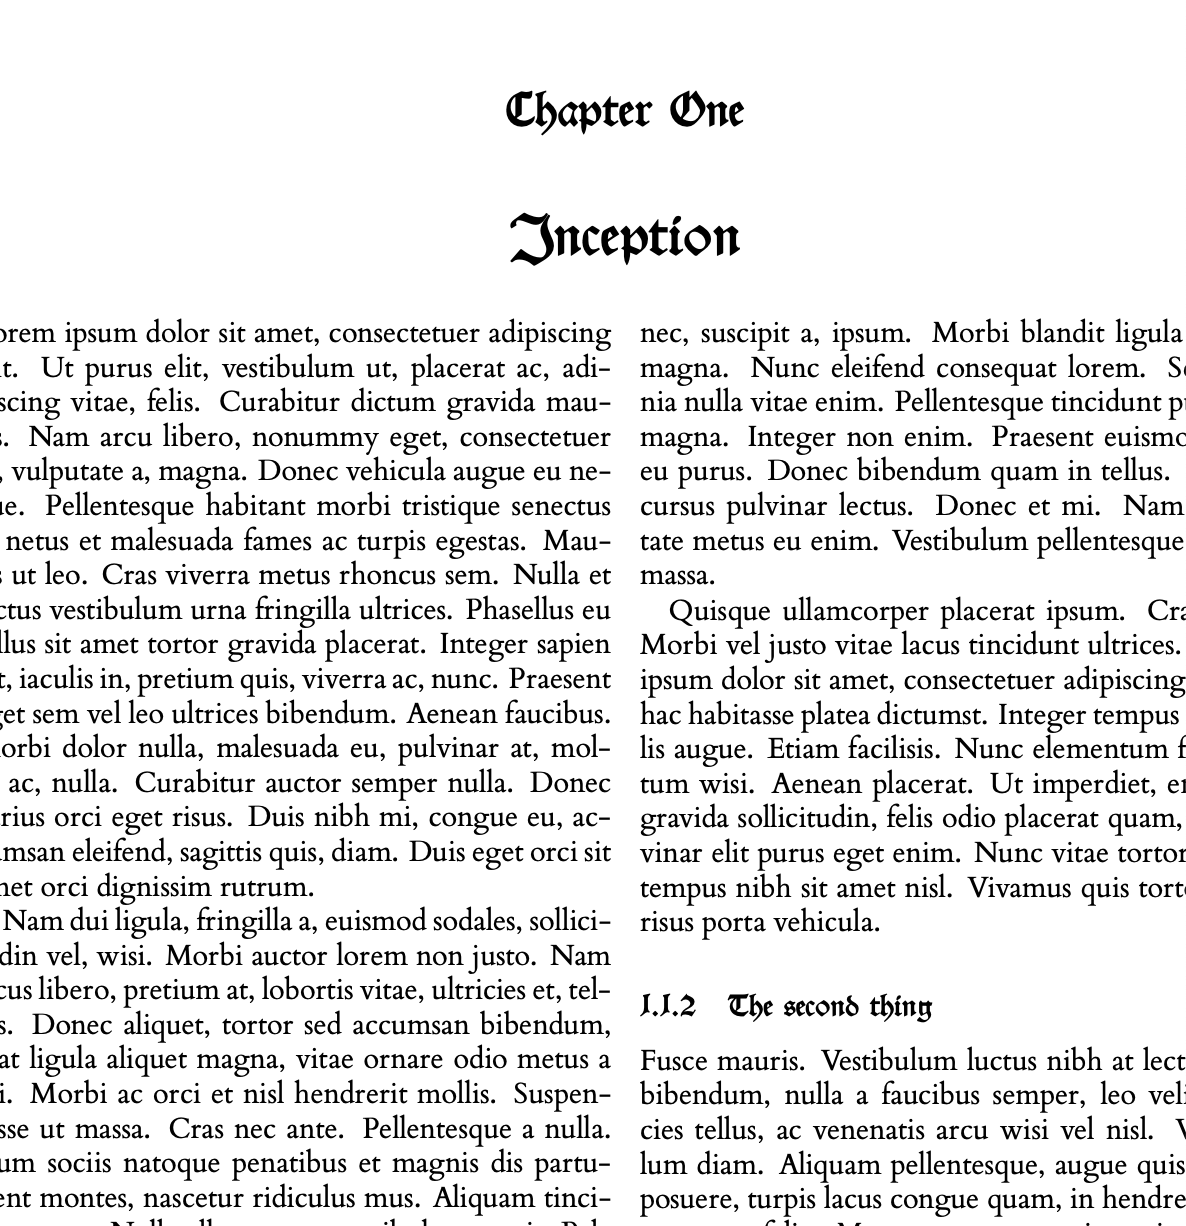
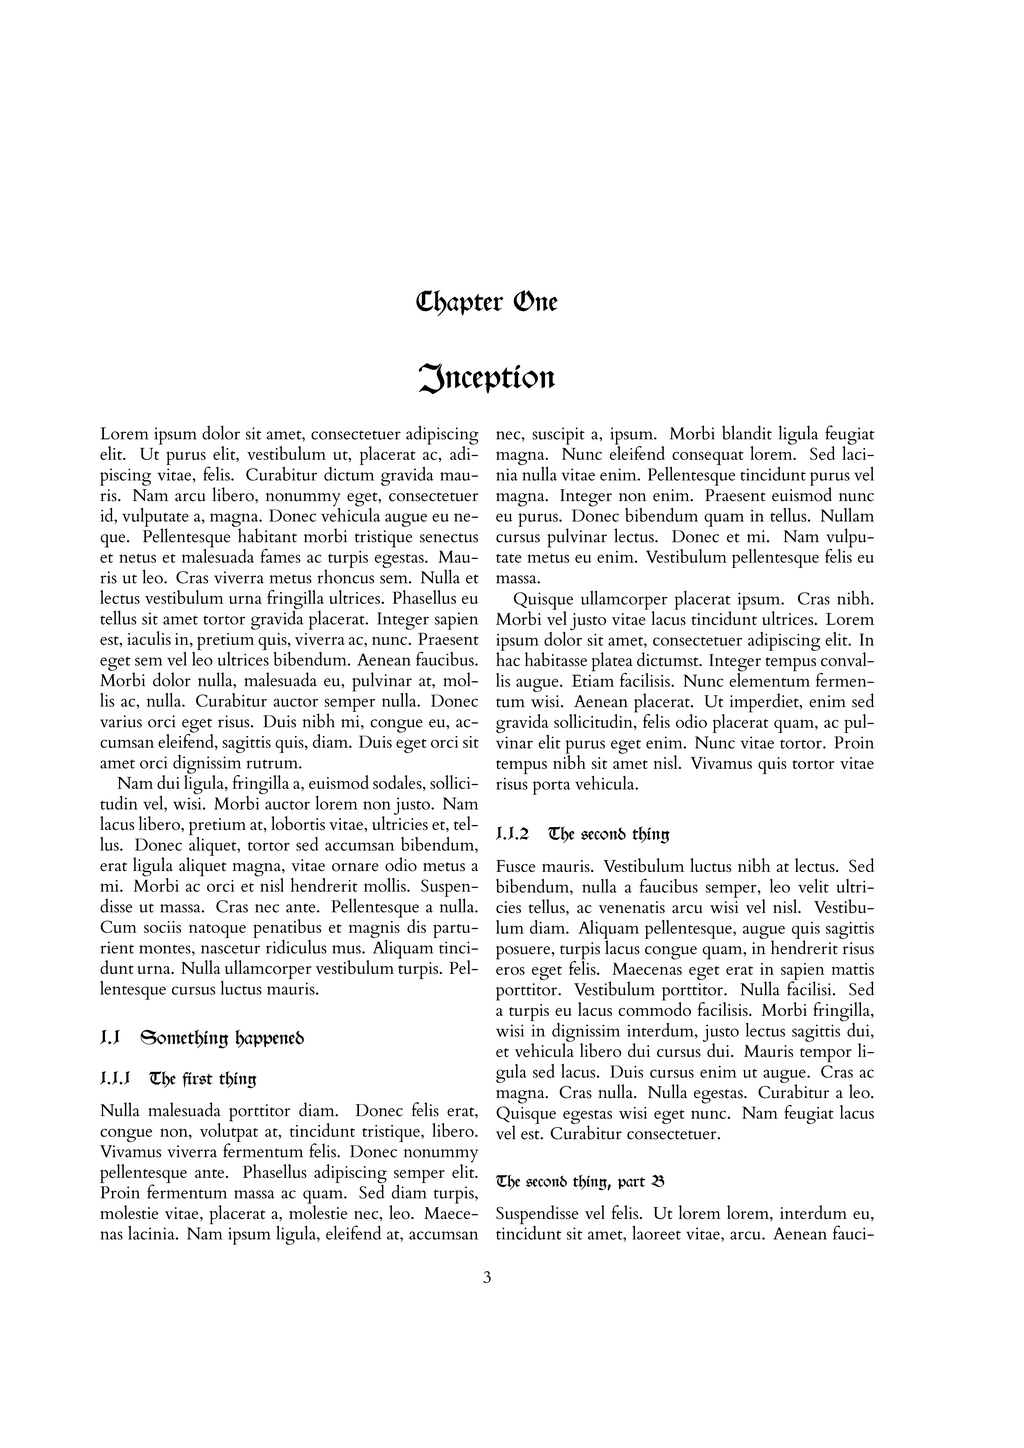
feat(showcase): three styles extracted, showcase build with make target

Changed region(s): [[0.0, 0.248, 1.0, 1.0], [0.4062, 0.062, 0.625, 0.124], [0.4062, 0.155, 0.625, 0.217]]

diff --git a/character-background.tex b/character-background.tex
@@ -1,87 +1,3 @@
 %!TEX TS-program = xelatex
 
-% http://www.ctan.org/pkg/memoir
-\documentclass[a4paper,twoside,twocolumn,10pt,bringhurst]{memoir}
-
-\usepackage[modern]{rpg}
-%\usepackage[fantasy]{rpg}
-%\usepackage[eldritch]{rpg}
-
-% crap
-\usepackage{lipsum}
-
-% http://tex.stackexchange.com/a/847/6928
-\usepackage{hyperref}
-\hypersetup{colorlinks,
-            linkcolor={red!50!black},
-            citecolor={blue!50!black},
-            urlcolor={blue!80!black}
-}
-% http://ctan.org/pkg/longtable
-\usepackage{longtable}
-
-% http://ctan.org/pkg/tabu
-\usepackage{tabu}
-
-% https://www.ctan.org/pkg/booktabs
-\usepackage{booktabs}
-
-% http://ctan.org/pkg/graphicx
-\usepackage{graphicx}
-
-%%%%%%%%%%%%%%%%%%%%%%%%%%%%%%%%%%%%%%%%%%%%%%%%%%%%%%%%%%%%%%%%%%%%%%%%%%%%%%%%
-\title{RPG character background}
-\date{\today}
-\author{Yann Golanski}
-
-% start.
-\begin{document}
-\frontmatter
-\maketitle
-\tableofcontents
-
-% Your content goes here
-\mainmatter
-
-\part{Beginnings}
-
-\chapter{Inception}
-
-\input{tab-character-description.tex}
-
-\lipsum[1]
-
-\lipsum[2]
-
-\section{Something happened}
-
-\subsection{The first thing}
-
-\lipsum[3]
-
-\lipsum[4]
-
-\subsection{The second thing}
-
-\lipsum[5]
-
-\subsubsection{The second thing, part B}
-
-\lipsum[6]
-
-\part{The Full Story}
-
-\chapter{The story so far\ldots}
-
-\input{tab-npc.tex}
-
-\chapter{Character details}
-
-\lipsum[7]
-
-\chapter{Rumours and facts for other players}
-
-\lipsum[8]
-
-% End document
-\end{document}
+\input{character-background-modern}

diff --git a/common/character-background-content.tex b/common/character-background-content.tex
@@ -1,0 +1,78 @@
+% crap
+\usepackage{lipsum}
+
+% http://tex.stackexchange.com/a/847/6928
+\usepackage{hyperref}
+\hypersetup{colorlinks,
+            linkcolor={red!50!black},
+            citecolor={blue!50!black},
+            urlcolor={blue!80!black}
+}
+% http://ctan.org/pkg/longtable
+\usepackage{longtable}
+
+% http://ctan.org/pkg/tabu
+\usepackage{tabu}
+
+% https://www.ctan.org/pkg/booktabs
+\usepackage{booktabs}
+
+% http://ctan.org/pkg/graphicx
+\usepackage{graphicx}
+
+%%%%%%%%%%%%%%%%%%%%%%%%%%%%%%%%%%%%%%%%%%%%%%%%%%%%%%%%%%%%%%%%%%%%%%%%%%%%%%%%
+\title{RPG character background}
+\date{\today}
+\author{Yann Golanski}
+
+% start.
+\begin{document}
+\frontmatter
+\maketitle
+\tableofcontents
+
+% Your content goes here
+\mainmatter
+
+\part{Beginnings}
+
+\chapter{Inception}
+
+\input{tab-character-description.tex}
+
+\lipsum[1]
+
+\lipsum[2]
+
+\section{Something happened}
+
+\subsection{The first thing}
+
+\lipsum[3]
+
+\lipsum[4]
+
+\subsection{The second thing}
+
+\lipsum[5]
+
+\subsubsection{The second thing, part B}
+
+\lipsum[6]
+
+\part{The Full Story}
+
+\chapter{The story so far\ldots}
+
+\input{tab-npc.tex}
+
+\chapter{Character details}
+
+\lipsum[7]
+
+\chapter{Rumours and facts for other players}
+
+\lipsum[8]
+
+% End document
+\end{document}

diff --git a/eldritch.tex b/eldritch.tex
@@ -1,0 +1,7 @@
+%!TEX TS-program = xelatex
+
+% http://www.ctan.org/pkg/memoir
+\documentclass[a4paper,twoside,twocolumn,10pt,bringhurst]{memoir}
+
+\usepackage[eldritch]{rpg}
+\input{common/character-background-content}

diff --git a/fantasy.tex b/fantasy.tex
@@ -1,0 +1,7 @@
+%!TEX TS-program = xelatex
+
+% http://www.ctan.org/pkg/memoir
+\documentclass[a4paper,twoside,twocolumn,10pt,bringhurst]{memoir}
+
+\usepackage[fantasy]{rpg}
+\input{common/character-background-content}

diff --git a/modern.tex b/modern.tex
@@ -1,0 +1,7 @@
+%!TEX TS-program = xelatex
+
+% http://www.ctan.org/pkg/memoir
+\documentclass[a4paper,twoside,twocolumn,10pt,bringhurst]{memoir}
+
+\usepackage[modern]{rpg}
+\input{common/character-background-content}
